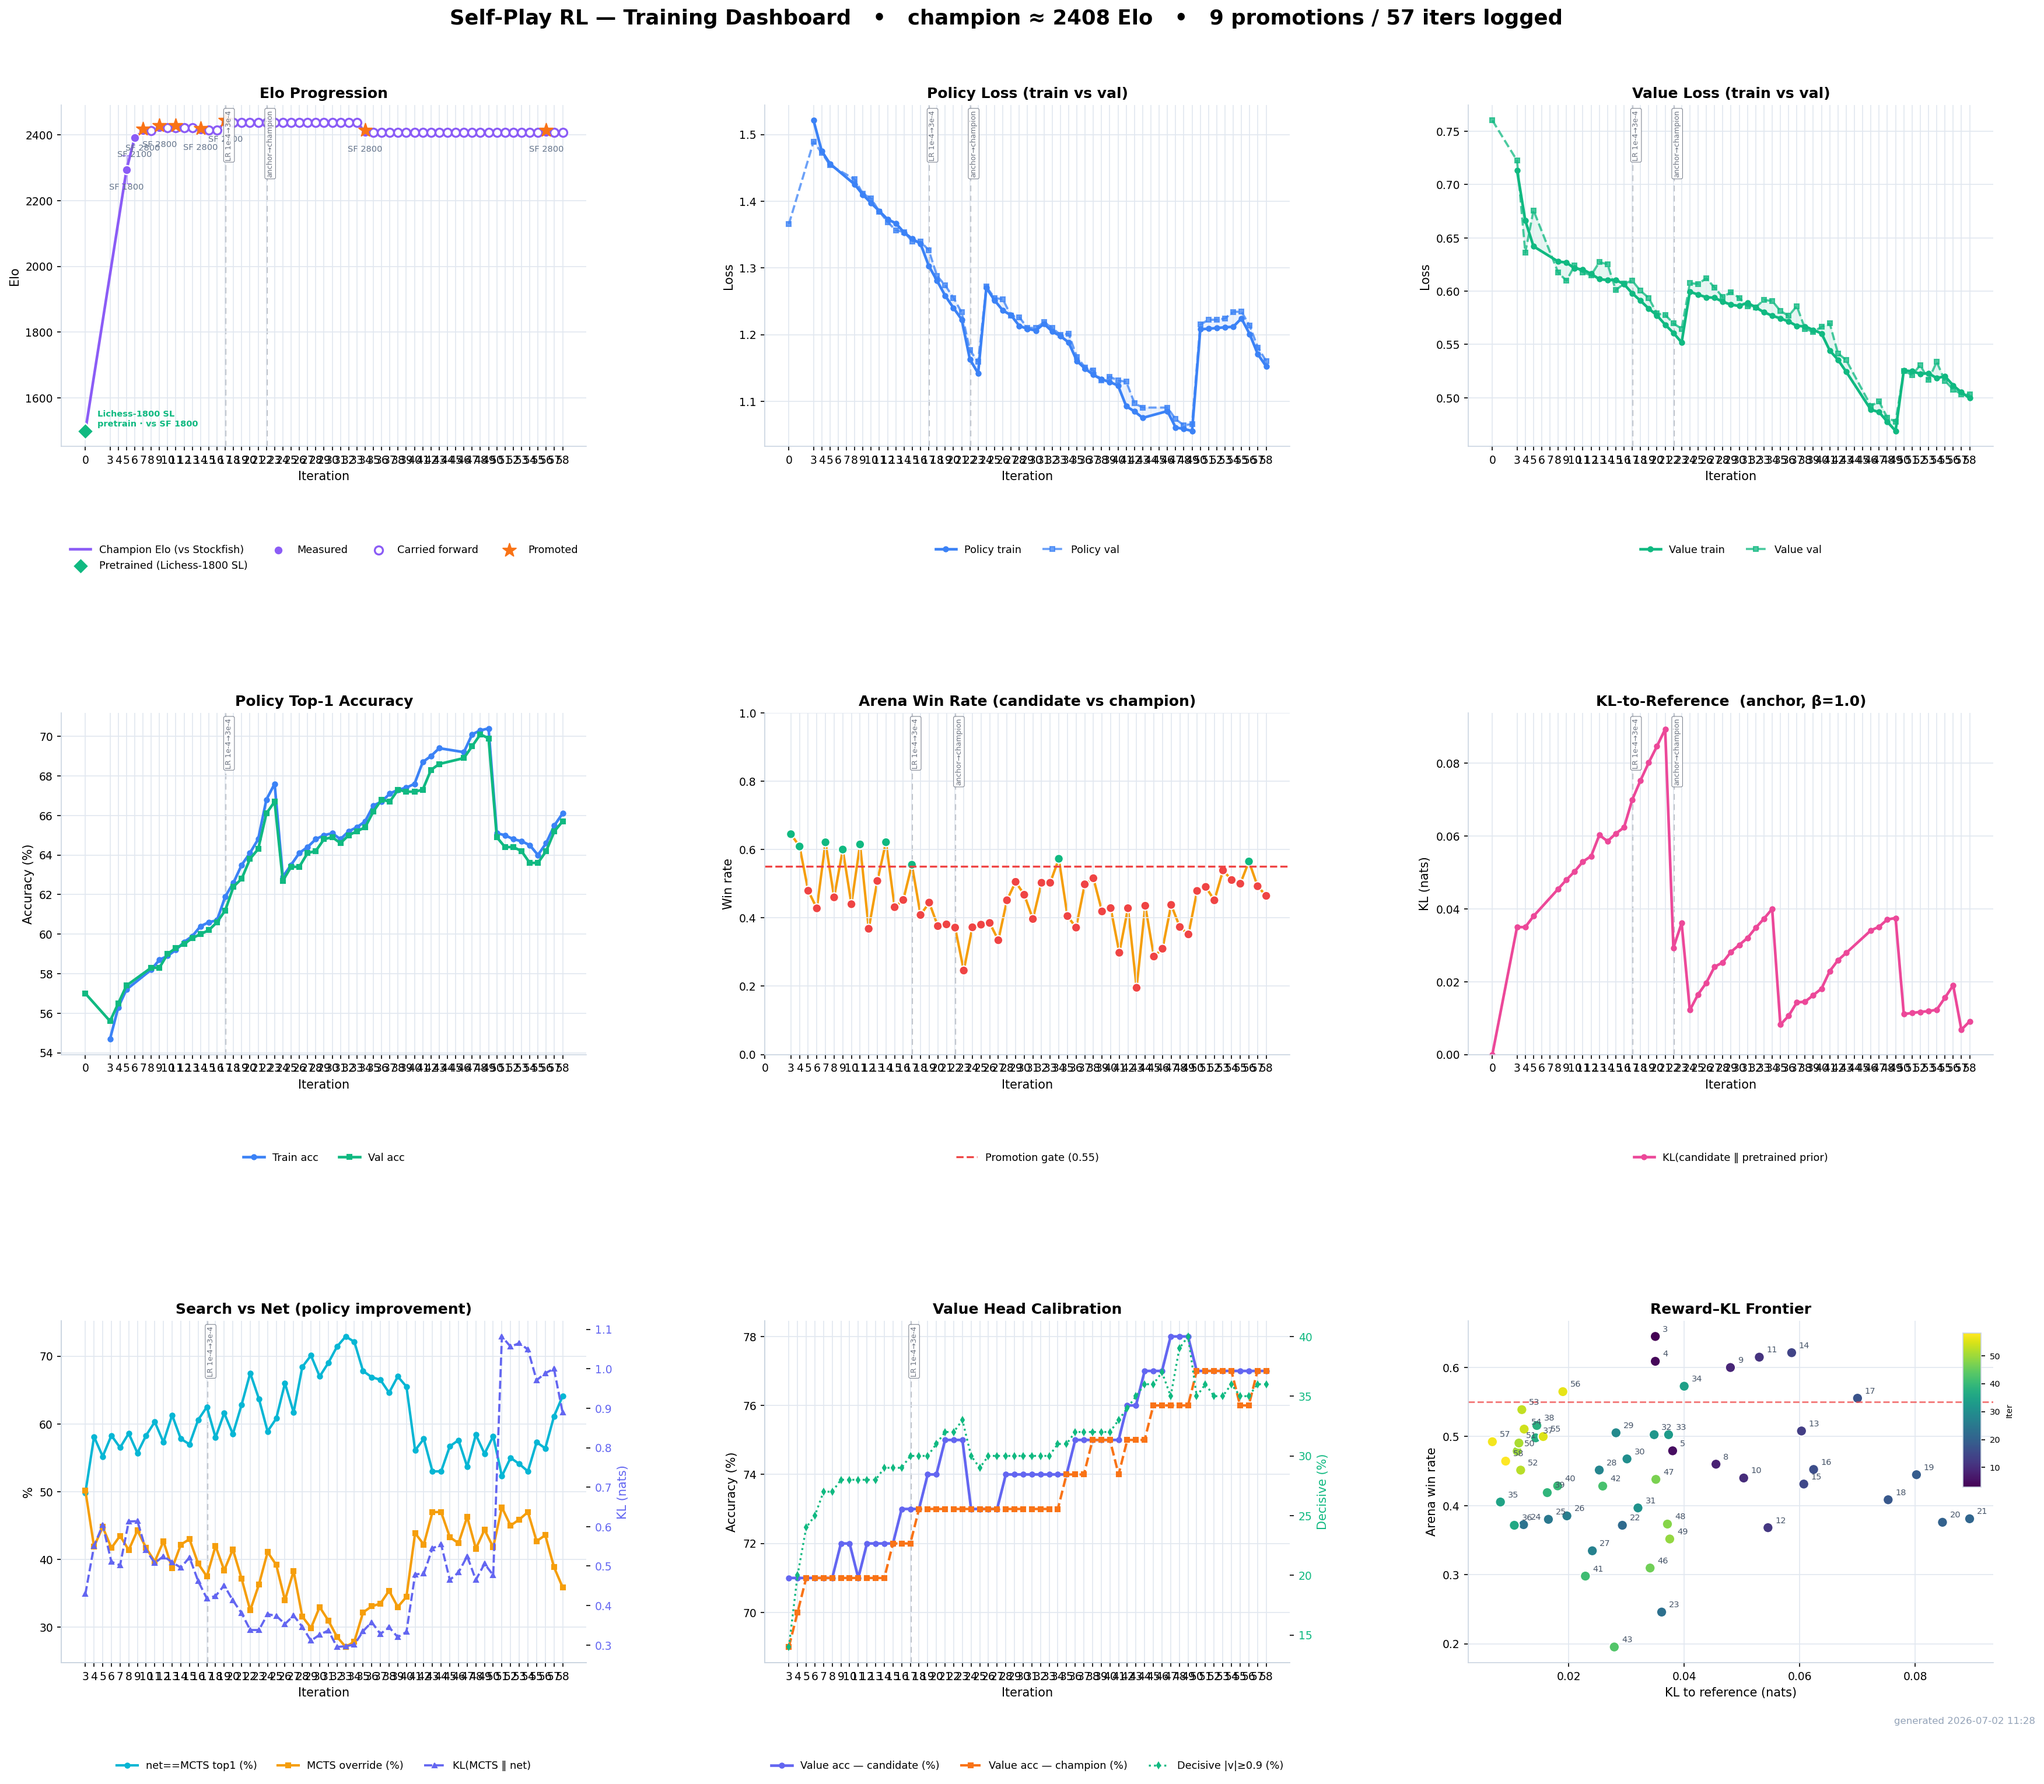
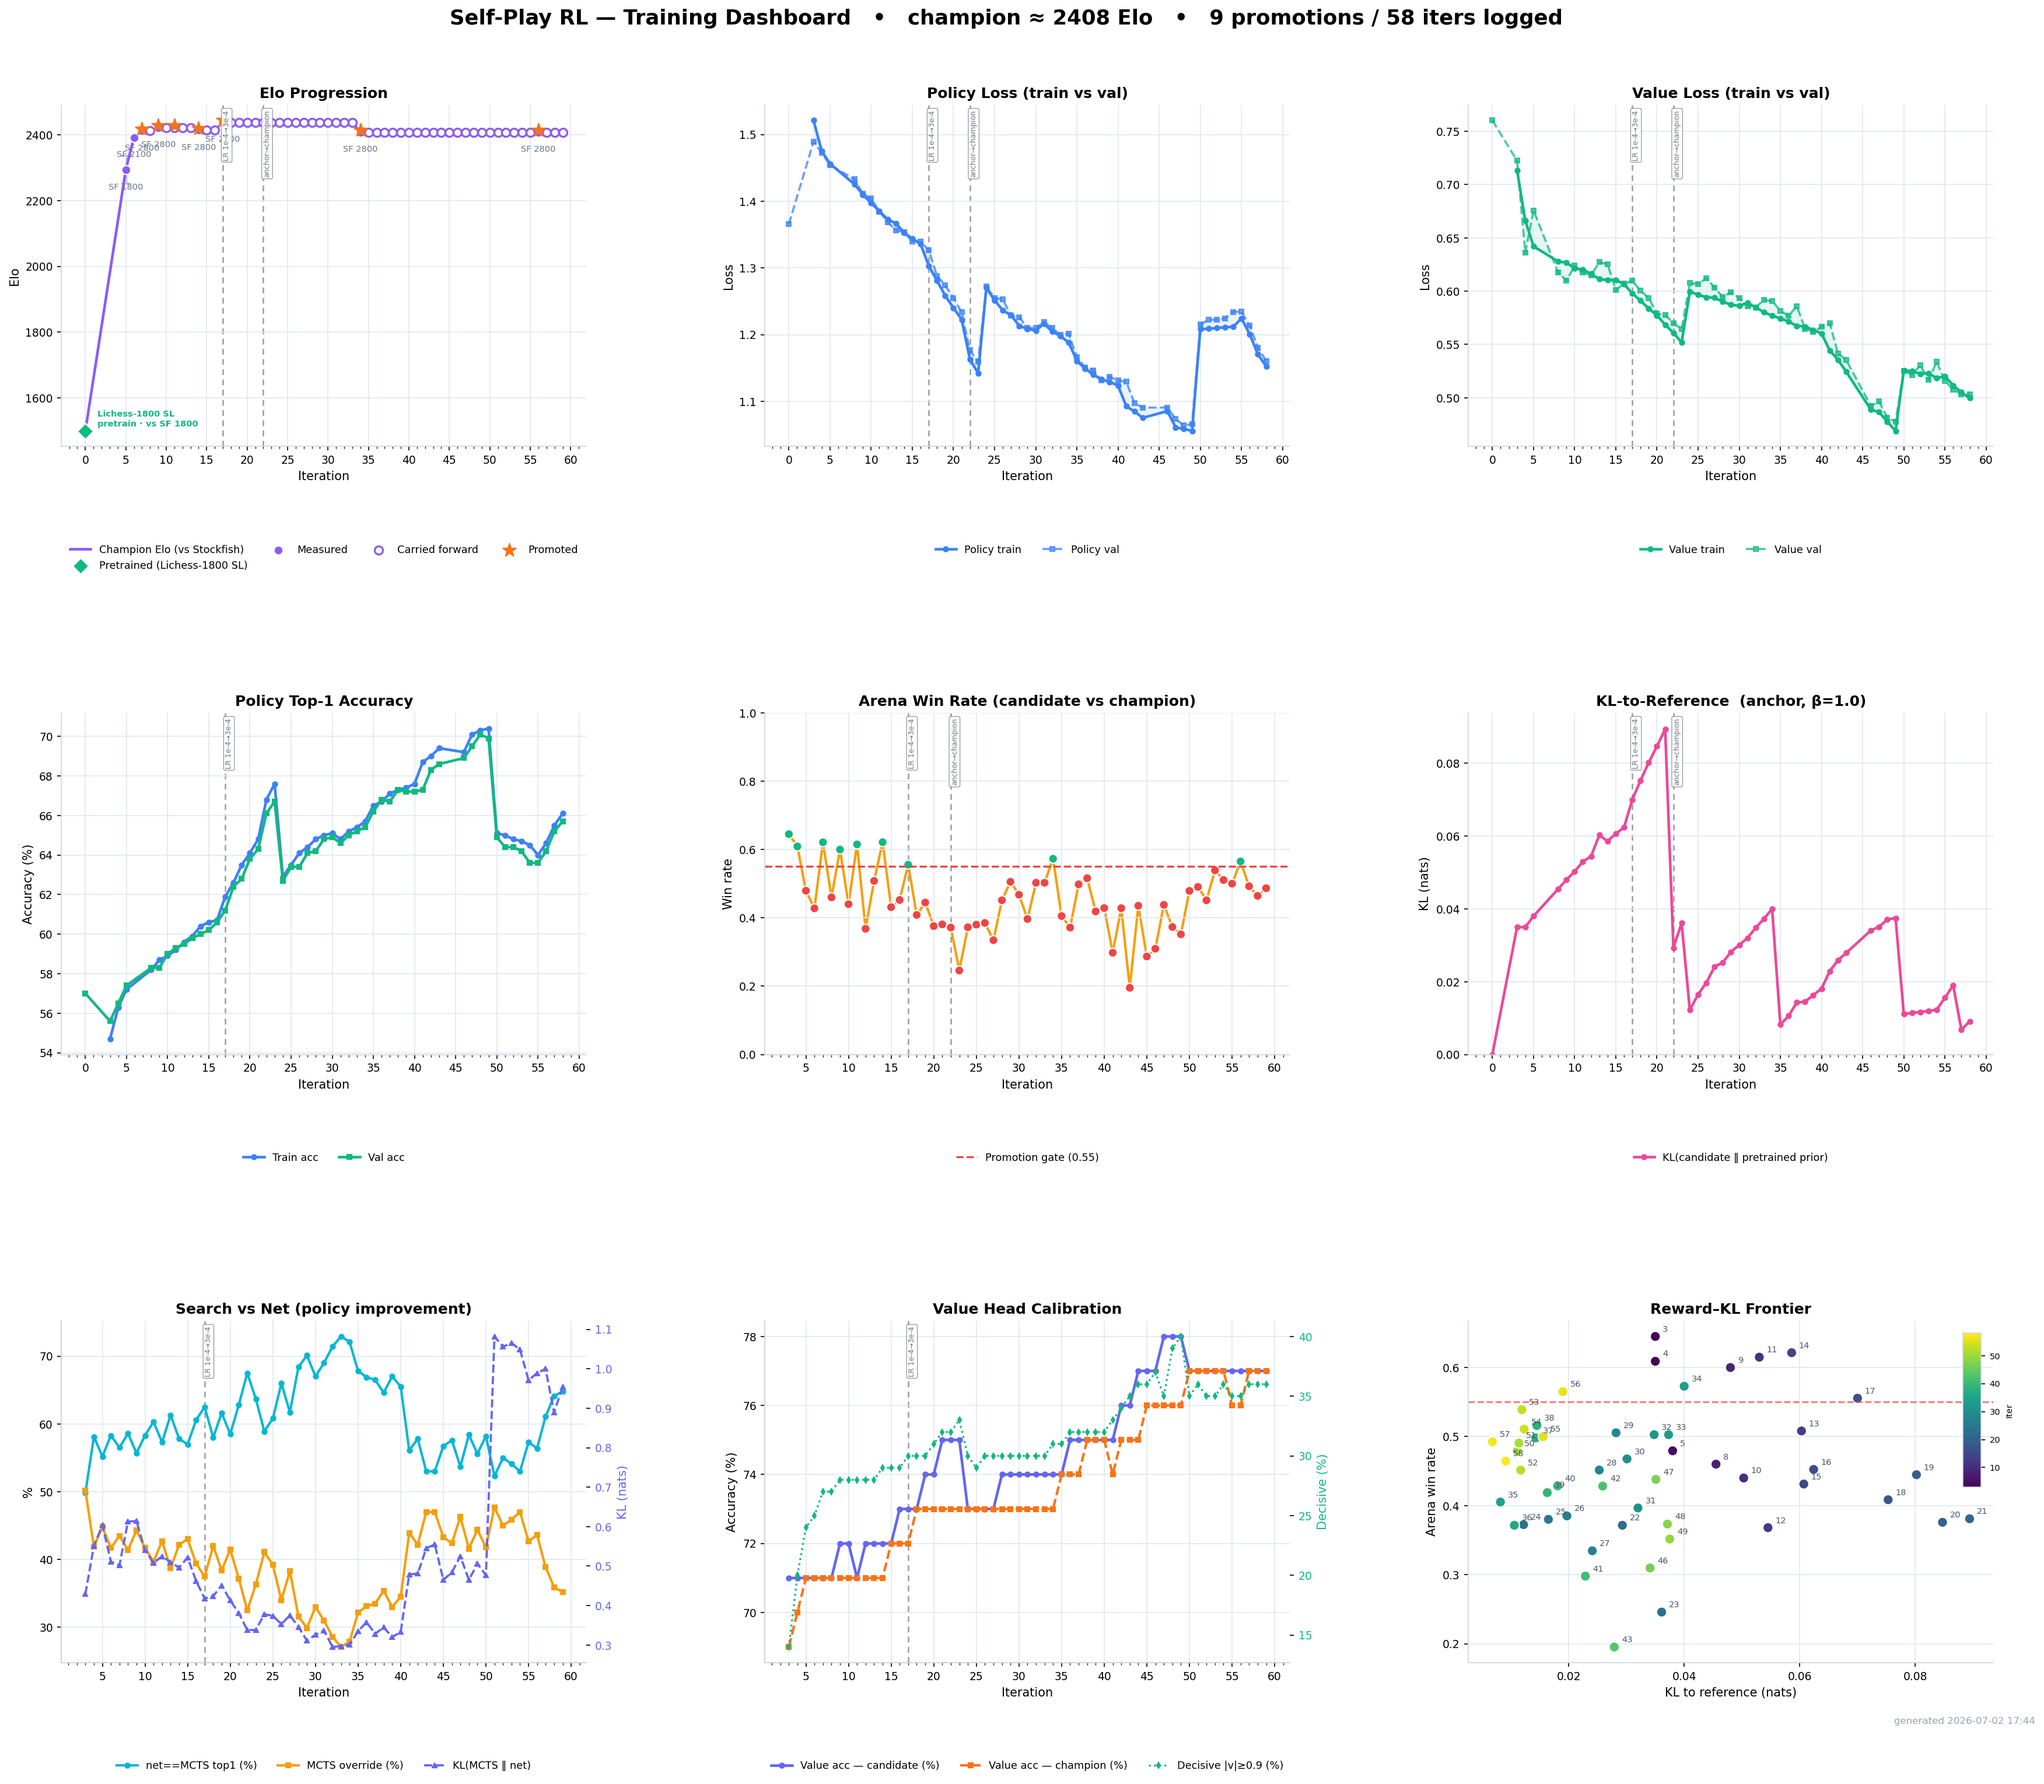
Plots update

diff --git a/chess_ai/plot_metrics.py b/chess_ai/plot_metrics.py
@@ -30,6 +30,7 @@ import matplotlib
 matplotlib.use("Agg")
 import matplotlib.pyplot as plt
 from matplotlib.gridspec import GridSpec
+from matplotlib.ticker import MultipleLocator
 from mpl_toolkits.axes_grid1.inset_locator import inset_axes
 
 # Paths anchored to this file so it works from repo root or chess_ai/.
@@ -194,7 +195,8 @@ def _mark_interventions(ax, key):
 
 
 def _int_xaxis(ax, it, mark=None):
-    ax.set_xticks(it)
+    ax.xaxis.set_major_locator(MultipleLocator(5))  # label every 5 iterations
+    ax.xaxis.set_minor_locator(MultipleLocator(1))  # unlabeled tick each iteration
     ax.set_xlabel("Iteration")
     if mark is not None:
         _mark_interventions(ax, mark)
